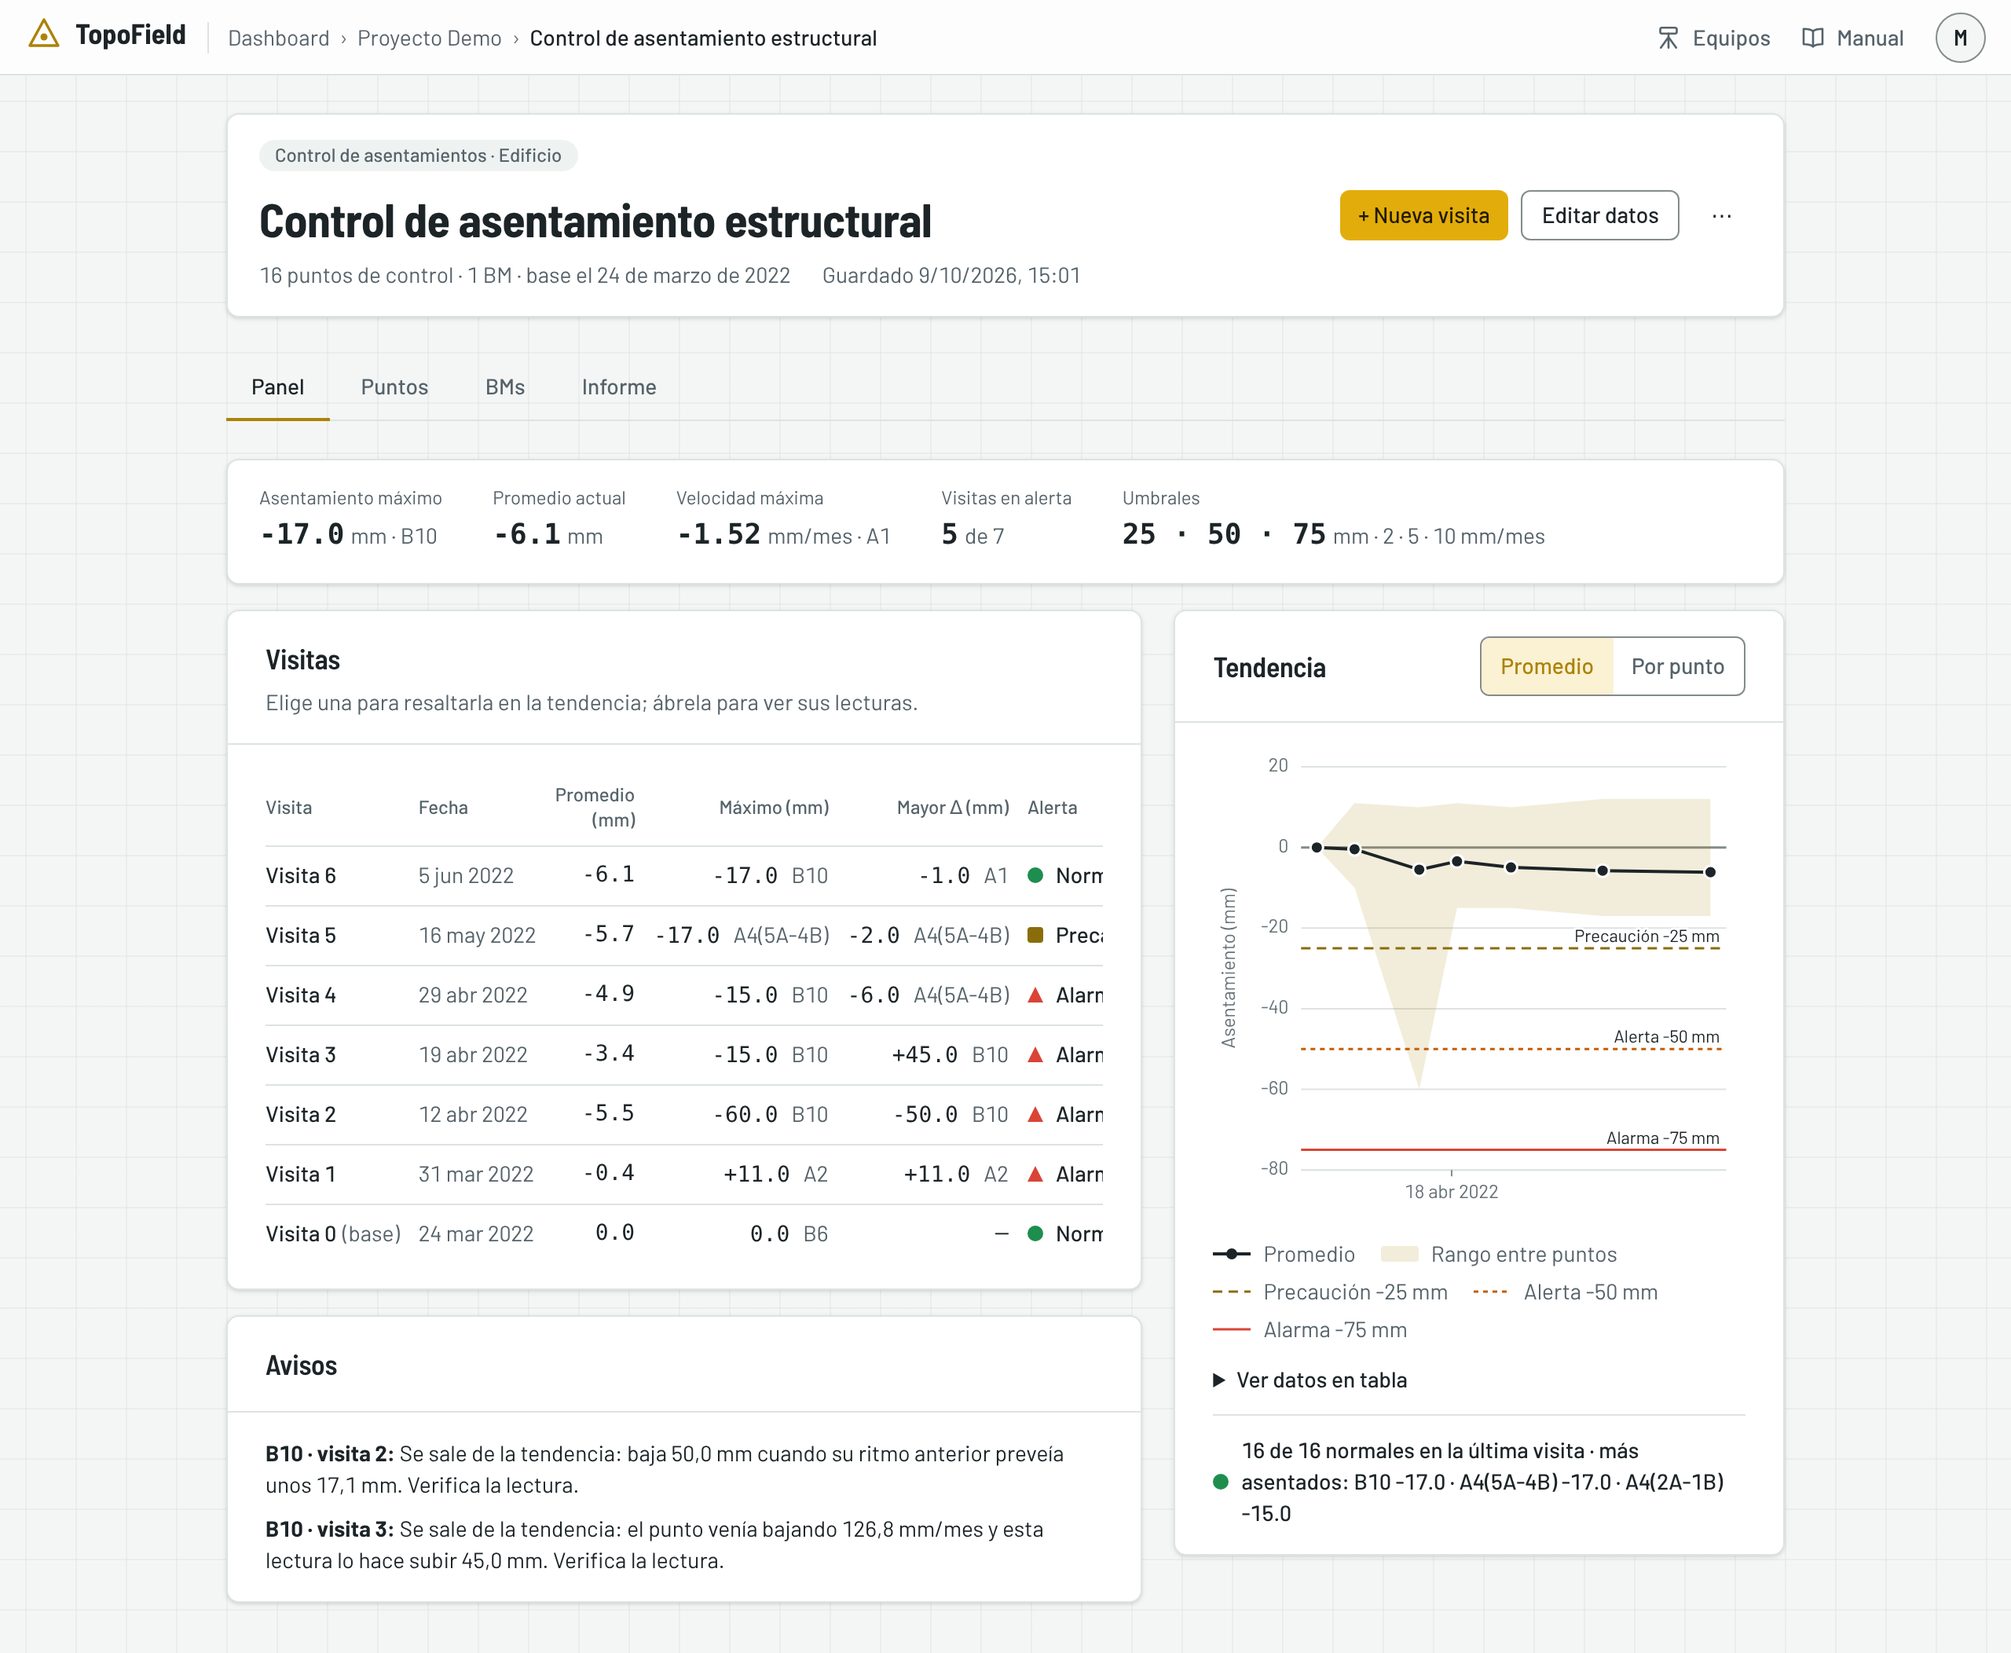
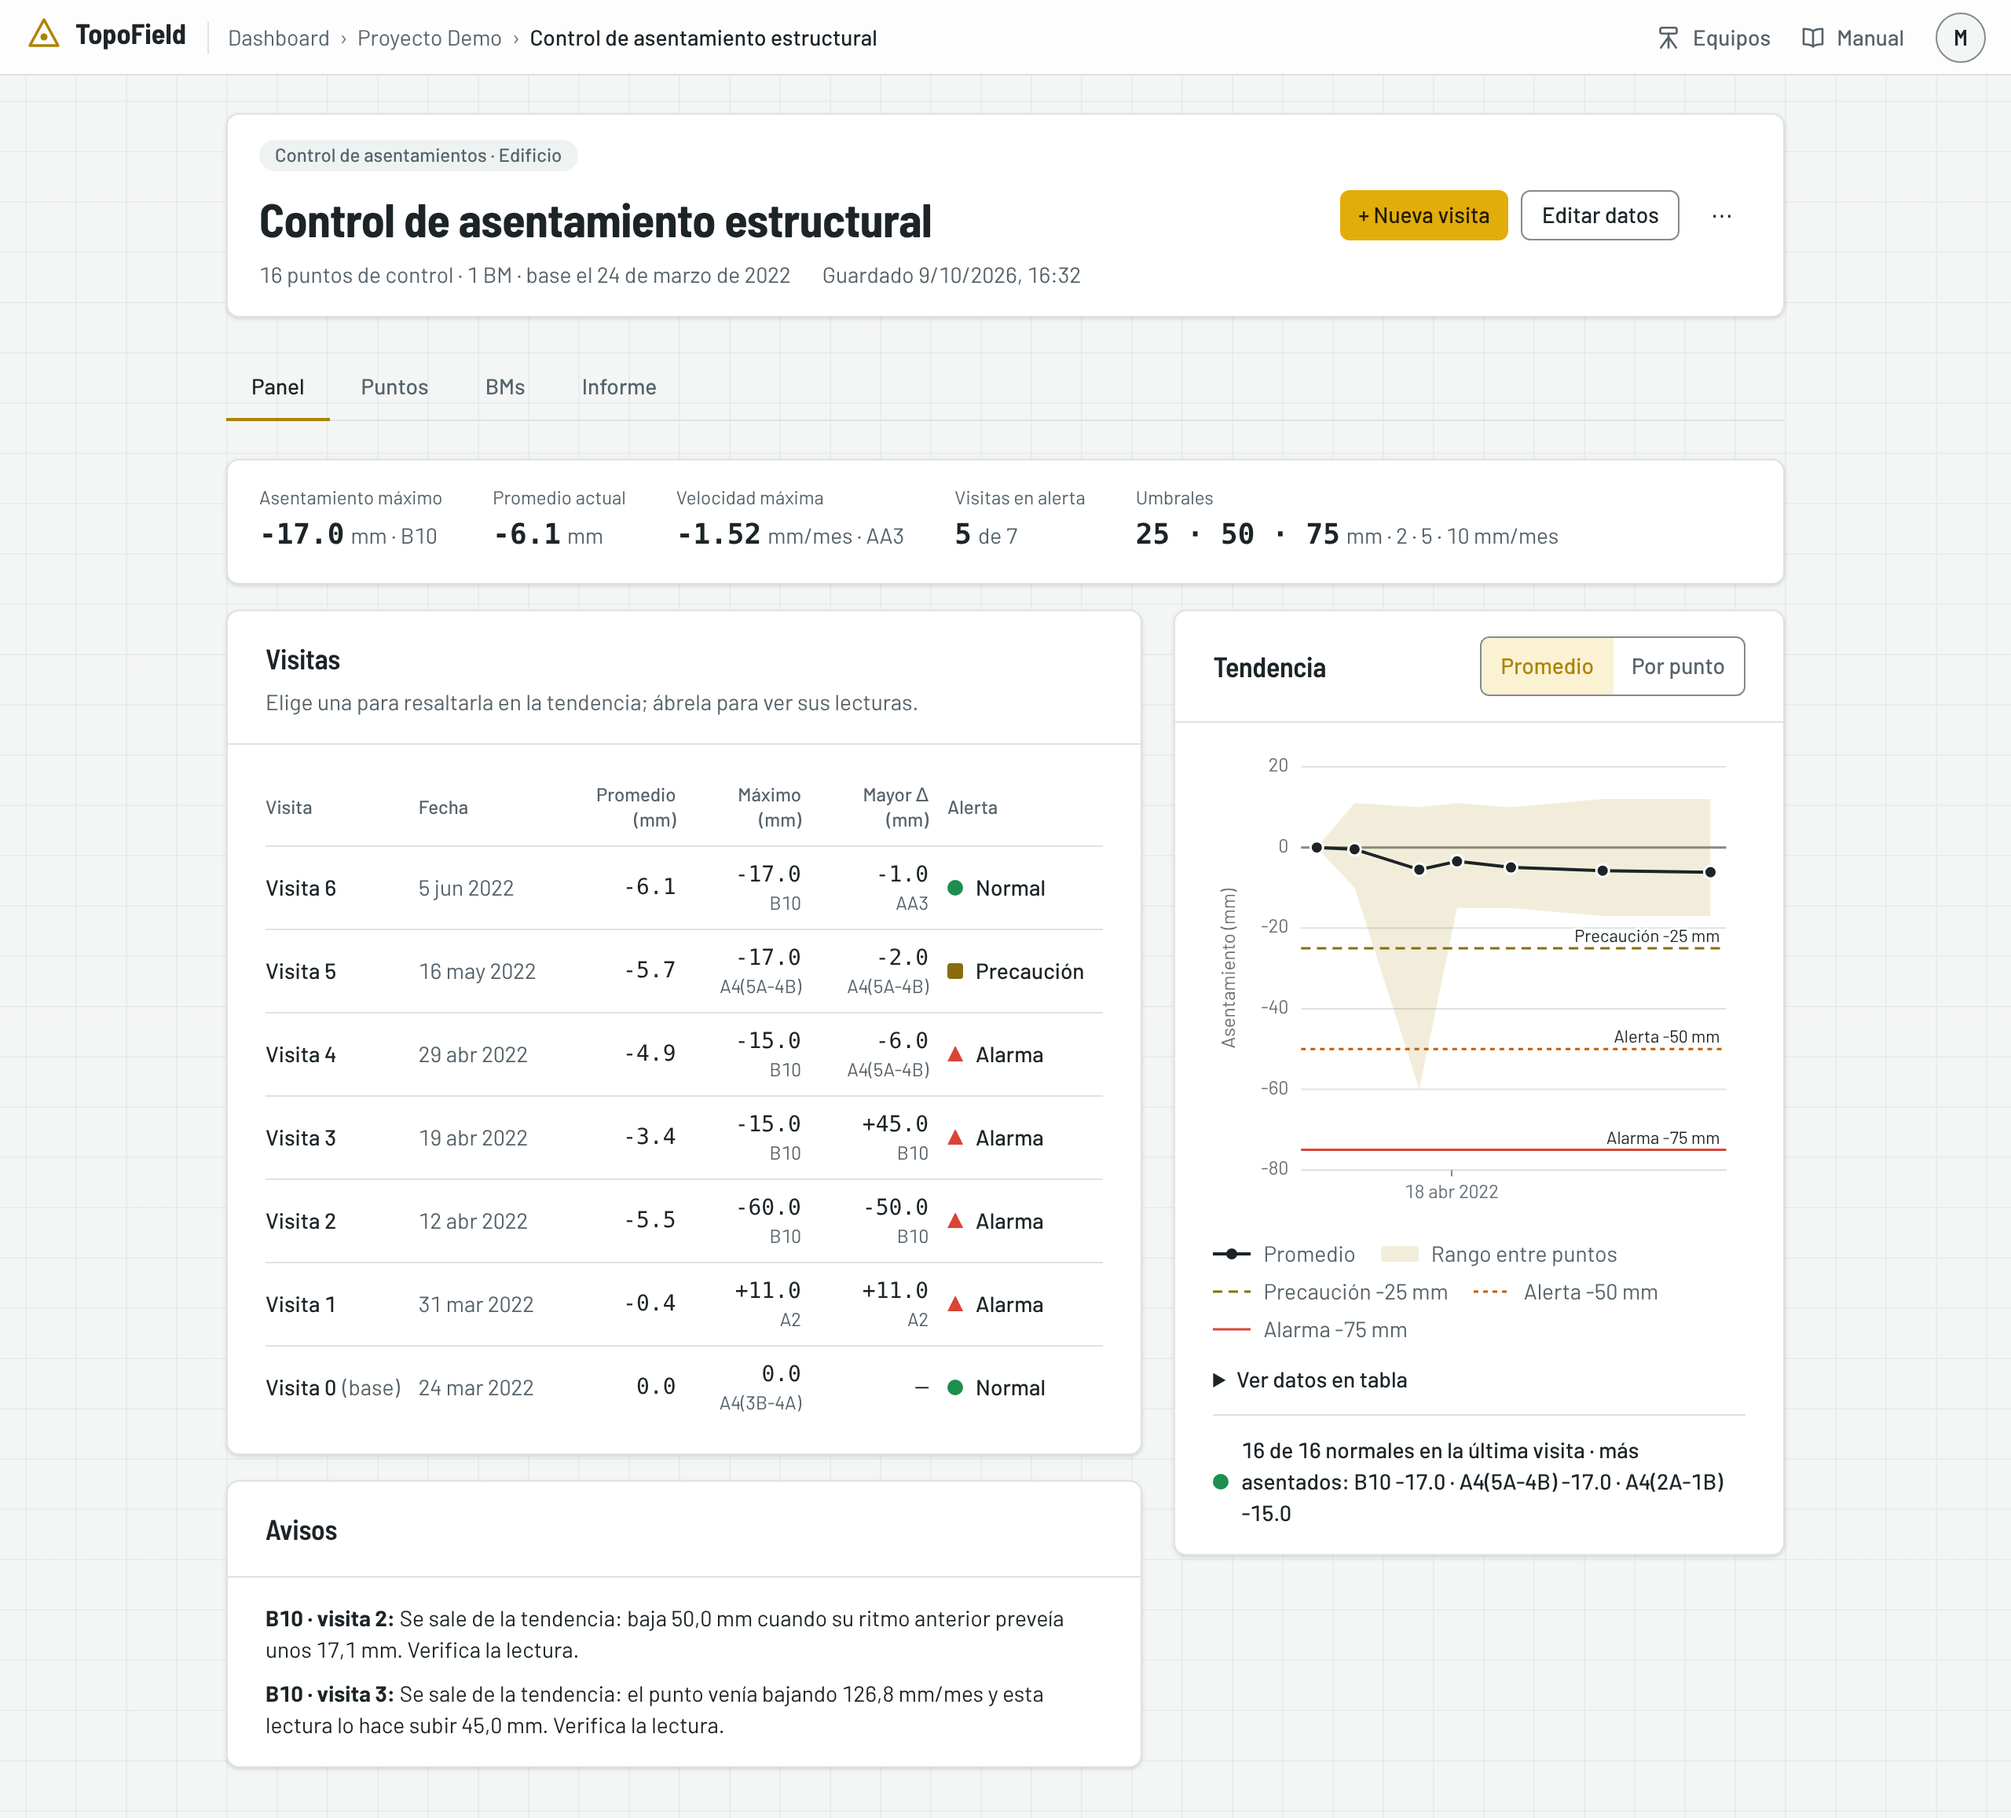
docs: manual — el panel con el punto debajo de su valor y el texto del diálogo de importación

diff --git a/docs/manual/05-asentamientos.md b/docs/manual/05-asentamientos.md
@@ -180,7 +180,8 @@ La pestaña **Panel** reúne todo el historial:
 - **Los indicadores**: el asentamiento máximo, el promedio actual, la
   velocidad máxima, cuántas visitas tienen alertas y los umbrales.
 - **Las visitas**, de la más reciente a la más antigua, con su promedio, su
-  máximo, su mayor movimiento y su peor alerta.
+  máximo y su mayor movimiento —debajo de cada uno, el punto donde ocurre— y
+  su peor alerta.
 - **La tendencia**: el promedio de los puntos en el tiempo, o cada punto por
   separado con **Por punto**.
 - **Los avisos** de lecturas fuera de tendencia.
